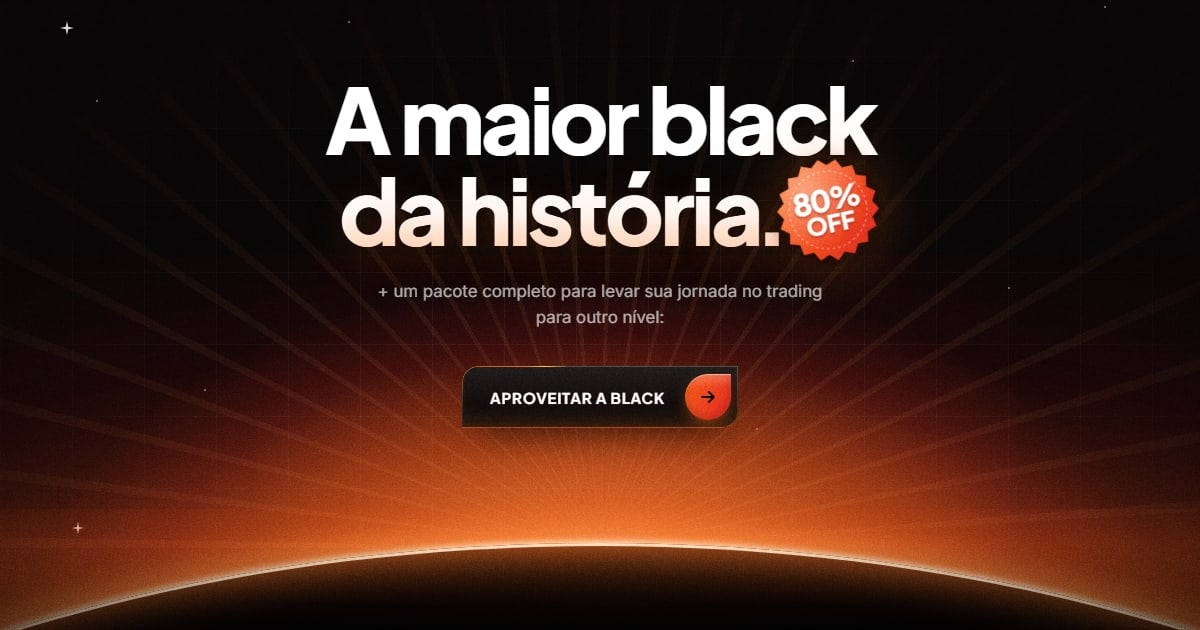
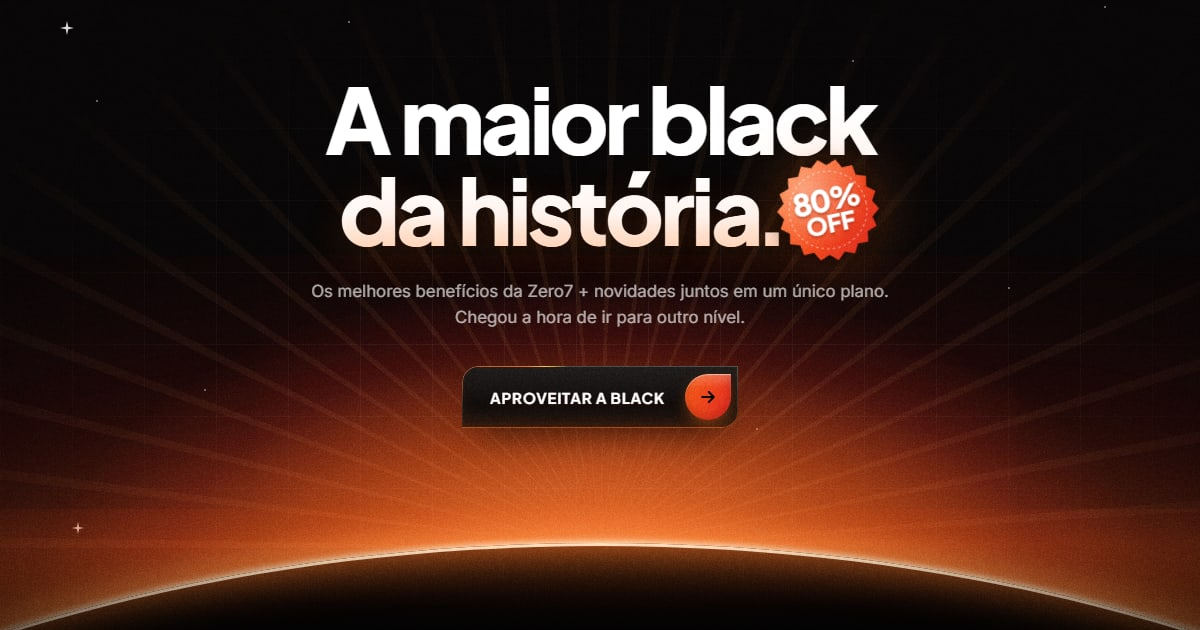
copy: subtítulo do hero e 30 mil traders
Copy aprovada pelo Gustavo em 27/10: o subtítulo do hero passa a ser "Os
melhores benefícios da Zero7 + novidades juntos em um único plano. Chegou a
hora de ir para outro nível." (2 linhas quebradas no ponto a partir de 1024,
com max-width de 35em; quebra natural no mobile) e o título da comunidade
fala em "mais de 30 mil traders" (3 linhas no desktop). Meta description e
og:description refeitas com o texto novo (a aprovar), imagem OG regerada,
e as duas mudanças registradas no PROMPTS-LP-BLACK.md.

Changed region(s): [[0.2467, 0.4524, 0.74, 0.5127]]

diff --git a/index.html b/index.html
@@ -8,7 +8,7 @@
   <meta name="color-scheme" content="dark">
   <!-- Título, descrição e Open Graph: frases da copy (hero, subtítulo e título dos planos) -->
   <title>A maior Black da história: 80% OFF | Zero7</title>
-  <meta name="description" content="80% OFF para garantir o seu plano perfeito e um pacote completo para levar sua jornada no trading para outro nível.">
+  <meta name="description" content="80% OFF na maior Black da história: os melhores benefícios da Zero7 + novidades juntos em um único plano. Chegou a hora de ir para outro nível.">
   <link rel="canonical" href="https://zero7.com.br/a-maior-black/">
 
   <meta property="og:type" content="website">
@@ -16,7 +16,7 @@
   <meta property="og:site_name" content="Zero7">
   <meta property="og:url" content="https://zero7.com.br/a-maior-black/">
   <meta property="og:title" content="A maior Black da história: 80% OFF | Zero7">
-  <meta property="og:description" content="80% OFF para garantir o seu plano perfeito e um pacote completo para levar sua jornada no trading para outro nível.">
+  <meta property="og:description" content="80% OFF na maior Black da história: os melhores benefícios da Zero7 + novidades juntos em um único plano. Chegou a hora de ir para outro nível.">
   <meta property="og:image" content="https://zero7.com.br/a-maior-black/assets/og/og-1200x630.jpg">
   <meta property="og:image:width" content="1200">
   <meta property="og:image:height" content="630">
@@ -189,7 +189,7 @@
       <div class="hero__conteudo">
         <!-- Quebra em todas as larguras: "A maior black" / "da história." + selo; a luz pega "da história." inteiro (ajustes do cliente) -->
         <h1 class="hero__titulo" id="hero-titulo">A maior black<br> <span class="h1-ancora"><span class="h1-luz">da história<span class="ponto">.</span></span><span class="selo-pino"><span class="selo-hero" role="img" aria-label="80% OFF"><svg viewBox="0 0 100 100" aria-hidden="true" focusable="false"><use href="#selo-serrilhado" fill="url(#selo-hero-cor)"/><use href="#selo-serrilhado" fill="url(#selo-hero-brilho)"/><circle cx="50" cy="50" r="38"/></svg><b>80%<small>OFF</small></b></span></span></span></h1>
-        <p class="hero__sub">+ um pacote completo para levar sua jornada no trading para outro nível:</p>
+        <p class="hero__sub">Os melhores benefícios da Zero7 + novidades juntos em um único plano. <br>Chegou a hora de ir para outro nível.</p>
         <div class="hero__acoes">
           <!-- A partir de 768 px, versão escura (.fbtn--escuro): o laranja sumia na luz do horizonte. No mobile, laranja. -->
           <a class="fbtn fbtn--escuro" href="#planos" data-cta="hero"><span class="fbtn__label">Aproveitar a Black</span><span class="fbtn__cap"><svg width="20" height="20" viewBox="0 0 24 24" fill="none" stroke="currentColor" stroke-width="2.4" stroke-linecap="round" stroke-linejoin="round" aria-hidden="true"><path d="M5 12h14M13 6l6 6-6 6"/></svg></span></a>
@@ -672,7 +672,7 @@
       <div class="wrap">
         <div class="cabecalho-secao comunidade__cabecalho" data-revelar>
           <span class="tag">Ecossistema Zero7</span>
-          <h2 class="titulo-secao comunidade__h2" id="comunidade-titulo">Faça parte da comunidade com mais de 19 mil traders e que continuam evoluindo <span>com o ecossistema criado pela Zero7<span class="ponto">.</span></span></h2>
+          <h2 class="titulo-secao comunidade__h2" id="comunidade-titulo">Faça parte da comunidade com mais de 30 mil traders e que continuam evoluindo <span>com o ecossistema criado pela Zero7<span class="ponto">.</span></span></h2>
         </div>
       </div>
 

diff --git a/css/secoes/topo.css b/css/secoes/topo.css
@@ -434,6 +434,22 @@ html.menu-aberto {
   color: var(--cor-texto-2);
 }
 
+/* Copy de 27/10: no desktop, 2 linhas quebradas no ponto (o <br> só vale aqui); a linha 1 tem 34,4em em qualquer
+   tamanho do --fs-lead, e o max-width em em acompanha a fonte. No mobile, quebra natural. */
+.hero__sub br {
+  display: none;
+}
+
+@media (min-width: 1024px) {
+  .hero__sub {
+    max-width: 35em;
+  }
+
+  .hero__sub br {
+    display: inline;
+  }
+}
+
 .hero__acoes {
   display: flex;
   flex-wrap: wrap;

diff --git a/PROMPTS-LP-BLACK.md b/PROMPTS-LP-BLACK.md
@@ -23,6 +23,15 @@ São seis fases, cada uma com entrega e critério de aceite próprios. **O Claud
 
 ---
 
+## Copy alterada depois da aprovação
+
+Estes textos **substituem** os do `_referencia/copy/LPBlack.html` e valem como copy oficial. Nenhuma fase deve voltar ao texto antigo.
+
+| Data | Onde | Antes (LPBlack.html) | Agora |
+|---|---|---|---|
+| 27/10/2026 (aprovado pelo Gustavo) | Hero, parágrafo abaixo do H1 (`.hero__sub`) | "+ um pacote completo para levar sua jornada no trading para outro nível:" | "Os melhores benefícios da Zero7 + novidades juntos em um único plano. Chegou a hora de ir para outro nível." No desktop (≥ 1024), 2 linhas quebradas no ponto; no mobile, quebra natural. |
+| 27/10/2026 (aprovado pelo Gustavo) | Comunidade, título | "Faça parte da comunidade com mais de 19 mil traders…" | "Faça parte da comunidade com mais de 30 mil traders e que continuam evoluindo com o ecossistema criado pela Zero7." |
+
 ## Textos a aprovar
 
 Estes textos **não estão na copy**. Eles entram na LP, mas cada relatório precisa listá-los até serem aprovados.
@@ -33,7 +42,8 @@ Estes textos **não estão na copy**. Eles entram na LP, mas cada relatório pre
 | Hero | "Termina em" (contador) |
 | Benefícios | rótulo "O pacote da Black"; título "Um pacote completo para o próximo nível."; link "Ir direto para os planos"; selo "Online 24h" no card Mentor IAVA; título curto do card 03, "Conta real com 10 dias na incubadora" (a copy diz "Transição para conta real com 10 dias na incubadora.") |
 | Planos | rótulo "Planos Black Friday" |
-| Comunidade | rótulo "Ecossistema Zero7"; "Vídeo em breve" (o bloco "19K traders na comunidade" foi removido a pedido do cliente) |
+| Comunidade | rótulo "Ecossistema Zero7" (o bloco "19K traders na comunidade" foi removido a pedido do cliente; o "Vídeo em breve" saiu quando os 6 cards ganharam vídeo) |
+| SEO | `meta description` e `og:description`: "80% OFF na maior Black da história: os melhores benefícios da Zero7 + novidades juntos em um único plano. Chegou a hora de ir para outro nível." (montada com a copy de 27/10) |
 
 ## Pendências de negócio (não bloqueiam as fases)
 

diff --git a/CLAUDE.md b/CLAUDE.md
@@ -49,7 +49,7 @@ O cliente ajustou a hero depois do print. As próximas fases partem destes valor
 
 ### Comunidade, fechamento e rodapé (Fase 5)
 
-- Comunidade: cabeçalho no padrão de título de seção (centralizado a partir de 768 px, Jakarta, bicolor: "Faça parte da comunidade com mais de 19 mil traders" em branco e o resto em branco .42). Sem o bloco "19K". Mídia no array `MIDIA` de `js/modulos/comunidade.js`; o arquivo de vídeo de um card só é pedido quando ele vai tocar.
+- Comunidade: cabeçalho no padrão de título de seção (centralizado a partir de 768 px, Jakarta, bicolor: "Faça parte da comunidade com mais de 30 mil traders" em branco e o resto em branco .42). Sem o bloco "19K". Mídia no array `MIDIA` de `js/modulos/comunidade.js`; o arquivo de vídeo de um card só é pedido quando ele vai tocar.
 - Fechamento: a logo da campanha é o Motion V02 do brand kit portado (`scripts/portar-motion-logo.mjs` gera `motion-logo-core.js` e `motion-logo-cena.js`; não edite os gerados). Quadro final = `assets/marca/completa-escuro.svg` (idêntico, pixel a pixel).
 - Rodapé: textos e links iguais aos da home (`node scripts/diff-rodape.mjs`); o selo do Reclame Aqui usa o mesmo script da home, sem alteração.
 
